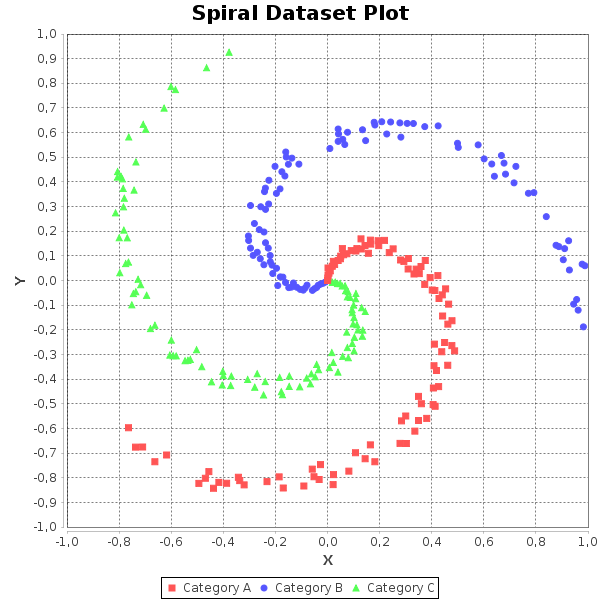
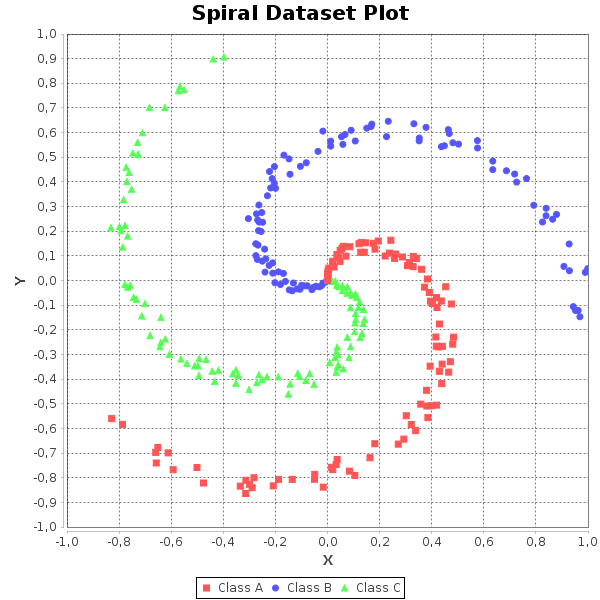
implementig neural network study (plotting now ok!)

diff --git a/duodecimoMachineLearningCodes/src/ml/NeuralNetworkStudy.java b/duodecimoMachineLearningCodes/src/ml/NeuralNetworkStudy.java
@@ -48,23 +48,6 @@ import util.matrix.DuodecimoMatrixUtils;
  * @author duo
  */
 public class NeuralNetworkStudy {
-
-/*
-    Lets generate a classification dataset that is not easily linearly separable. Our favorite example is the spiral dataset, which can be generated as follows:
-    N = 100 # number of points per class
-    D = 2 # dimensionality
-    K = 3 # number of classes
-    X = np.zeros((N*K,D)) # data matrix (each row = single example)
-    y = np.zeros(N*K, dtype='uint8') # class labels
-    for j in xrange(K):
-    ix = range(N*j,N*(j+1))
-    r = np.linspace(0.0,1,N) # radius
-    t = np.linspace(j*4,(j+1)*4,N) + np.random.randn(N)*0.2 # theta
-    X[ix] = np.c_[r*np.sin(t), r*np.cos(t)]
-    y[ix] = j
-    # lets visualize the data:
-    plt.scatter(X[:, 0], X[:, 1], c=y, s=40, cmap=plt.cm.Spectral)
-     */
     int pointsPerClass = 100;
     int dimensionality = 2;
     int numberOfClasses = 3;
@@ -73,6 +56,10 @@ public class NeuralNetworkStudy {
     // vector with all entries = 0.0d, class labels
     RealVector Y = new ArrayRealVector(pointsPerClass * numberOfClasses);
     public NeuralNetworkStudy() throws IOException {
+        /*
+        Lets generate a classification dataset that is not easily linearly separable.
+        A dataset with 3 classes where each one makes a spiral shape.
+        */
         double[] r = new double[pointsPerClass]; // radius
         double interval = (1.0d - 0.0d) / (double)(pointsPerClass - 1);
         r[0] = 0d;
@@ -147,22 +134,44 @@ public class NeuralNetworkStudy {
         /* debug
         System.out.println(DuodecimoMatrixUtils.showRealMatrix("X:", X, 20, X.getColumnDimension()));
         */
+        /* now we can plot the dataset in order to see taht it is not liearly separable.
+        */
         showChart();
+        
+        // lets crete a weight matrix W and a bias vector b
+        RealMatrix W = MatrixUtils.createRealMatrix(dimensionality, numberOfClasses);
+        RealVector b = new ArrayRealVector(numberOfClasses);
+        // lets generate random values to initialize W
+        JDKRandomGenerator generator = new JDKRandomGenerator((int) System.currentTimeMillis());
+        DoubleStream doubleStream;
+        double[] doubles;
+        for(int i=0; i<W.getRowDimension(); i++) {
+            doubleStream = generator.doubles(numberOfClasses, -1.0d, 1.0d);
+            doubles = doubleStream.toArray();
+            for(int j=0; j< numberOfClasses; j++) {
+                W.setEntry(i, j, doubles[j]*0.01d);
+            }
+        }
+        System.out.println(DuodecimoMatrixUtils.showRealMatrix("W:", W));
     }
 
     private XYDataset createJFreeChartDataset(RealMatrix X) {
+        // in order to use JFreeChart to scatter plot the data,
+        // we can store our data in a XYSeriesCollection object
+        // the we add to it K XYSeries objects, each one
+        // holding a class
         XYSeriesCollection result = new XYSeriesCollection();
-        XYSeries series = new XYSeries("Category A");
+        XYSeries series = new XYSeries("Class A");
         for (int i = 0; i < 100; i++) {
             series.add(X.getEntry(i, 0), X.getEntry(i, 1));
         }
         result.addSeries(series);
-        series = new XYSeries("Category B");
+        series = new XYSeries("Class B");
         for (int i = 100; i < 200; i++) {
             series.add(X.getEntry(i, 0), X.getEntry(i, 1));
         }
         result.addSeries(series);
-        series = new XYSeries("Category C");
+        series = new XYSeries("Class C");
         for (int i = 200; i < 300; i++) {
             series.add(X.getEntry(i, 0), X.getEntry(i, 1));
         }
@@ -198,7 +207,7 @@ public class NeuralNetworkStudy {
         JFrame frame = new JFrame("Neural Network Study");
         frame.getContentPane().add(chartPanel);
         frame.pack();
-        frame.setDefaultCloseOperation(WindowConstants.EXIT_ON_CLOSE);
+        //frame.setDefaultCloseOperation(WindowConstants.EXIT_ON_CLOSE);
         frame.setVisible(true);
     }
 
